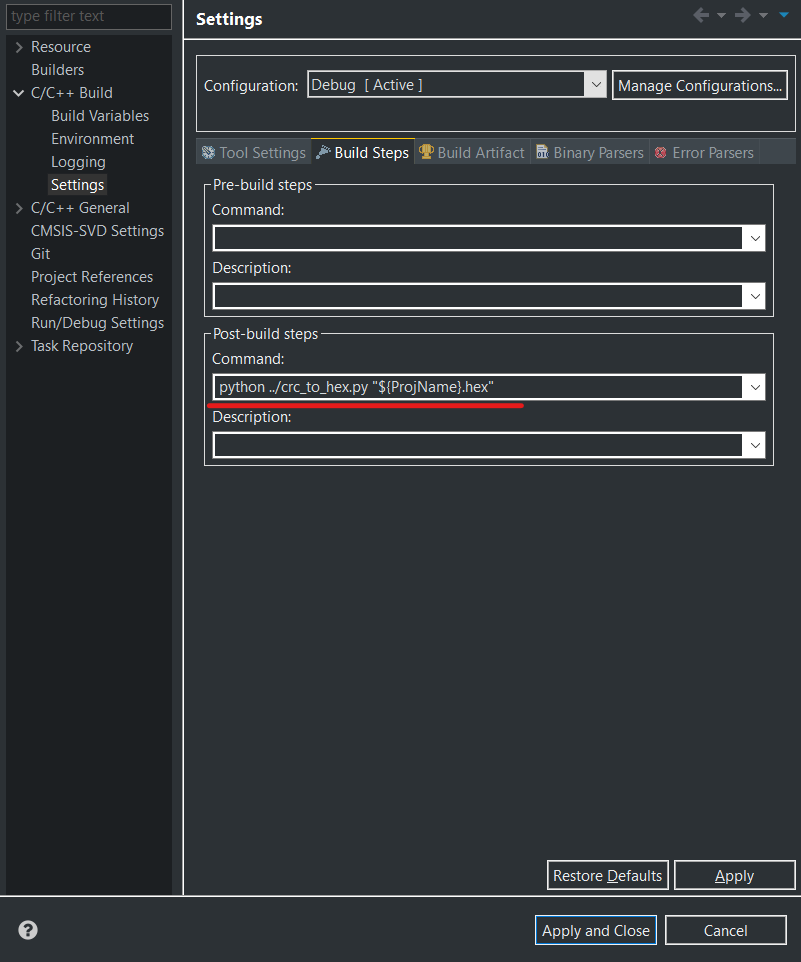
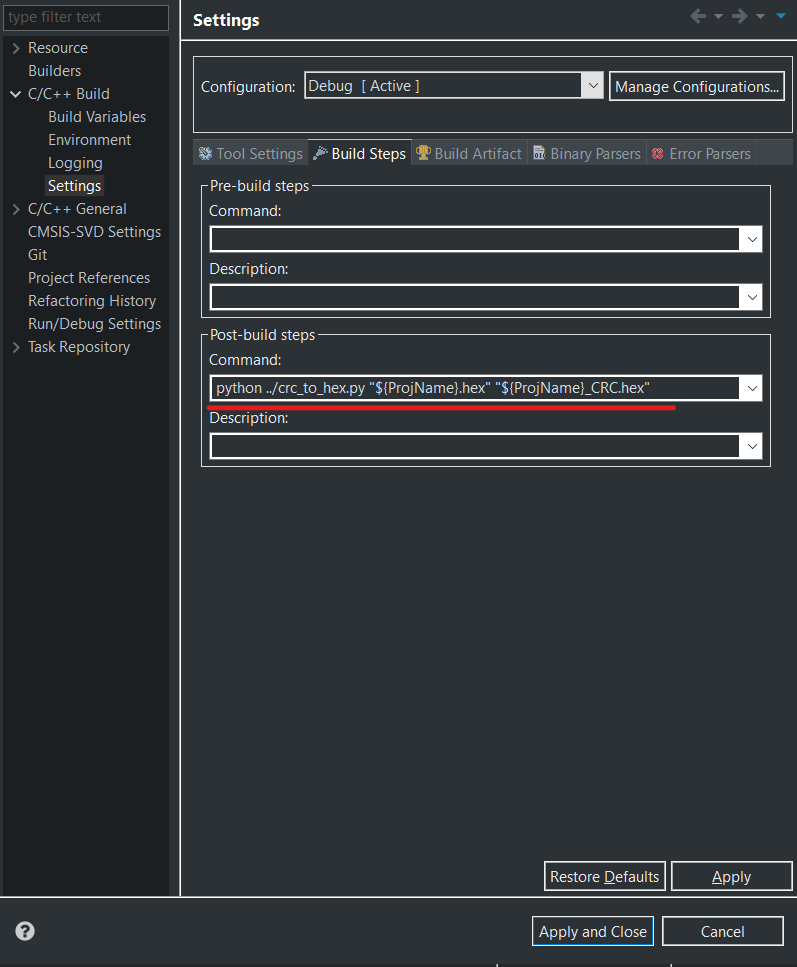
Загрузка при отладке

Changed region(s): [[0.0, 0.0, 1.0, 0.9979], [0.542, 0.1247, 0.6324, 0.1871], [0.8432, 0.1559, 0.9335, 0.1871]]

diff --git a/crc_to_hex.py b/crc_to_hex.py
@@ -31,6 +31,9 @@ low_end_part = ''
 # Получение имени файла
 filename = sys.argv[1]
 
+# Имя выходного файла
+outfilename = sys.argv[2]
+
 f = open(filename, 'r')
 for line in f:
     if (not CheckLine(line)):
@@ -59,10 +62,10 @@ end_adr = end_adr + 4
 end_adr = hex(end_adr)
 
 # Вставка контрольной суммы в конец hex файла
-cmd = f"..\\srec_cat.exe {filename} -Intel -fill 0xFF {start_adr} {end_adr} -crc16-big-endian {end_adr} -o {filename} -Intel"
+cmd = f"..\\srec_cat.exe {filename} -Intel -fill 0xFF {start_adr} {end_adr} -crc16-big-endian {end_adr} -o {outfilename} -Intel"
 os.system(cmd)
 
 # Получение bin файла
 binfilename = filename[:-3] + "bin"
-cmd = f"arm-none-eabi-objcopy --input-target=ihex --output-target=binary {filename} {binfilename}"
+cmd = f"arm-none-eabi-objcopy --input-target=ihex --output-target=binary {outfilename} {binfilename}"
 os.system(cmd)

diff --git a/README.md b/README.md
@@ -10,7 +10,7 @@
 1. Скачать и установить интерпретатор Python3 (при установке доабвить исполняемый файл python в переменную среды Path);
 2. Разместить файл crc_to_hex.py и srec_cat.exe в корневом каталоге проекта STM32CubeIDE;
 
-## Настройка
+## Настройка выполнения скрипта
 
 1. Открыть проект STM32CubeIDE;
 2. Нажать правой кнопкой мыши на проект и выбрать Propierties;
@@ -18,9 +18,18 @@
 4. В поле "Command:" раздела "Post-build steps" вписать строку:
 
 ```
-python ../crc_to_hex.py "${ProjName}.hex"
+python ../crc_to_hex.py "${ProjName}.hex" "${ProjName}_CRC.hex"
 ```
-![Скриншот настроек](Resources/settings.png)
+![Скриншот настройки выполнения](Resources/settings.png)
 
 
-Далее после компиляции проекта в конец Hex файла будет вставляться контрольная сумма.
+Далее после компиляции проекта будет создаваться Hex файл прошивки с контрольной суммой в конце.
+
+## Настройка загрузки Hex файла с контрольной суммой при отладке
+
+1. Создать отладочную конфигурацию и зайти в раздел Startup;
+2. В поле Load Image and Symbols необходимо добавить новую строку с настройкой на Hex файл с контрольной суммой;
+3. Далее настройки произвести как на примере ниже:
+
+![Скриншот настройки загрузки](Resources/debug_settings.png)
+
